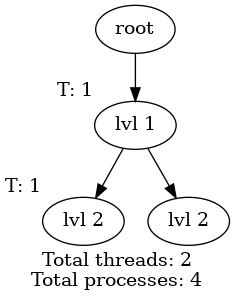
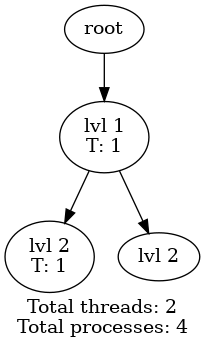
Move thread label inside nodes

diff --git a/frk.c b/frk.c
@@ -24,9 +24,16 @@ static struct shared_data *shared_data = NULL;
 
 static void close_graph(void) {
     while(wait(NULL) != -1);
-    if(thread_nr > 0) {
-        printf("    %d [xlabel=\"T: %d\"];\n", getpid(), thread_nr);
+    printf("    %d [label=\"", getpid());
+    if(depth == 0) {
+        printf("root");
+    } else {
+        printf("lvl %d", depth);
     }
+    if(thread_nr > 0) {
+        printf("\\nT: %d", thread_nr);
+    }
+    printf("\"];\n");
     if(depth == 0) {
         if(shared_data->total_threads > 0) {
             printf("    label=\"Total threads: %d\\nTotal processes: %d\";\n", shared_data->total_threads, shared_data->total_processes);
@@ -52,7 +59,6 @@ static void initialize(void) {
     shared_data->total_threads = 0;
     shared_data->total_processes = 1;
     printf("digraph process_tree {\n");
-    printf("    %d [label=\"root\"];\n", getpid());
     atexit(close_graph);
     initialized = true;
 }
@@ -63,7 +69,6 @@ pid_t frk(void) {
     pid_t child = fork();
     if(child != 0) {
         printf("    %d -> %d;\n", getpid(), child);
-        printf("    %d [label=\"lvl %d\"];\n", child, depth + 1);
     } else {
         depth++;
         thread_nr = 0;
